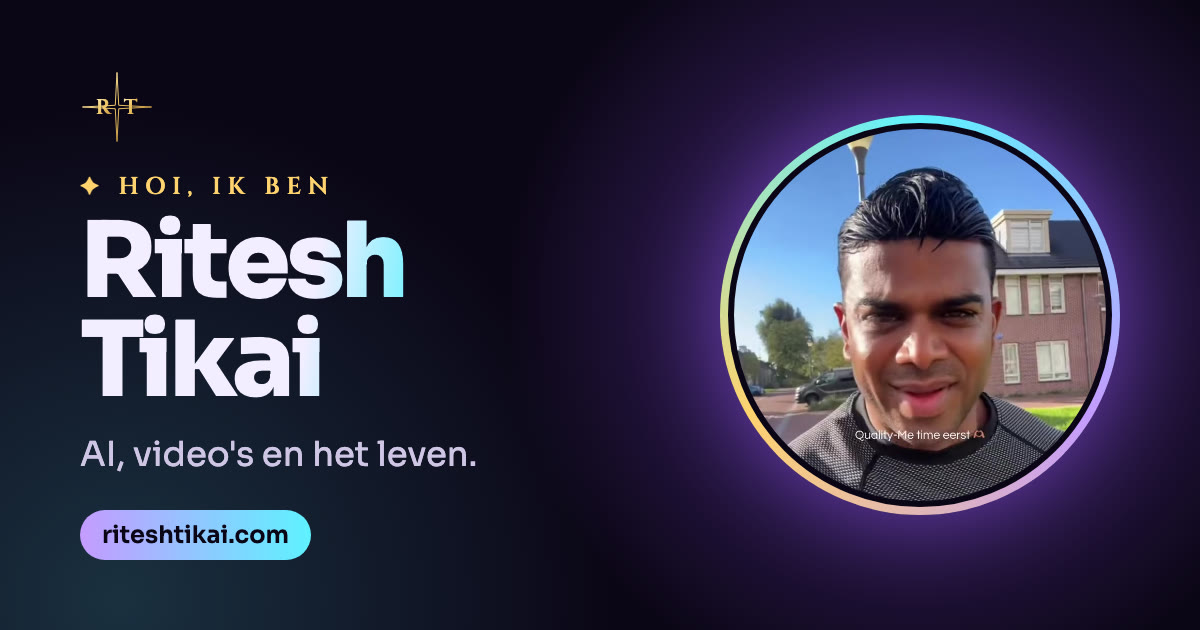
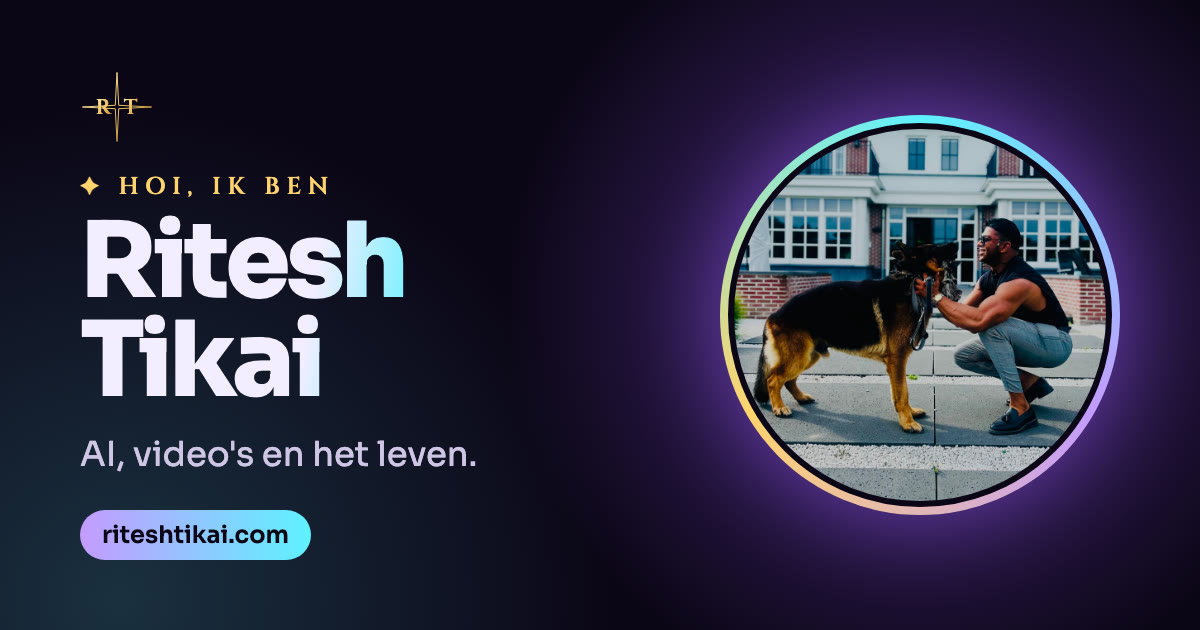
Hero: foto met Duitse herder in het portaal; deelafbeelding bijgewerkt

Changed region(s): [[0.5858, 0.181, 0.925, 0.8143]]

diff --git a/index.html b/index.html
@@ -181,6 +181,7 @@
   .antenne{animation:antenne 2s ease-in-out infinite}
   @keyframes antenne{50%{opacity:.35}}
   @media (prefers-reduced-motion:reduce){.knipoog,.antenne{animation:none}}
+  .face img{position:absolute;inset:0;width:100%;height:100%;object-fit:cover;object-position:50% 50%}
 </style>
 <script type="application/ld+json">{"@context": "https://schema.org", "@graph": [{"@type": "Person", "name": "Ritesh Tikai", "url": "https://riteshtikai.com/", "sameAs": ["https://www.instagram.com/riteshtikai/", "https://www.linkedin.com/in/ritesh-tikai-97643459/", "https://www.tiktok.com/@tiktoktikai", "https://www.tiktok.com/@tiktoktikai1"], "givenName": "Ritesh", "familyName": "Tikai", "image": "https://riteshtikai.com/media/og.jpg", "description": "Ritesh Tikai maakt video's over AI en het leven, op TikTok (@tiktoktikai en @tiktoktikai1) en Instagram (@riteshtikai).", "knowsAbout": ["Kunstmatige intelligentie", "AI", "Video", "Reizen"], "@id": "https://riteshtikai.com/#persoon"}, {"@type": "WebSite", "@id": "https://riteshtikai.com/#website", "url": "https://riteshtikai.com/", "name": "Ritesh Tikai", "inLanguage": "nl", "publisher": {"@id": "https://riteshtikai.com/#persoon"}}, {"@type": "ProfilePage", "url": "https://riteshtikai.com/", "name": "Ritesh Tikai", "mainEntity": {"@id": "https://riteshtikai.com/#persoon"}}]}</script>
 </head>
@@ -204,7 +205,7 @@
         <div class="portal" id="portal">
           <div class="glow" aria-hidden="true"></div><div class="ring1" aria-hidden="true"></div>
           <div class="ring2" aria-hidden="true"><svg viewBox="0 0 200 200"><defs><path id="pc" d="M100,100 m-88,0 a88,88 0 1,1 176,0 a88,88 0 1,1 -176,0"/></defs><text fill="#ffd36e" font-family="Cinzel" font-size="8.5" letter-spacing="3.4"><textPath href="#pc">✦ AI ✦ TRAVEL ✦ CODE ✦ VERHALEN ✦ VIDEO'S ✦ HET LEVEN ✦ RITESH ✦ </textPath></text></svg></div>
-          <div class="face"><video id="facevid" src="media/hero.mp4" poster="media/hero-poster.jpg" autoplay muted loop playsinline preload="auto" aria-label="Korte video van Ritesh"></video></div>
+          <div class="face"><img src="media/hero-foto.jpg" alt="Ritesh Tikai met zijn Duitse herder voor een wit huis" width="900" height="900" fetchpriority="high"></div>
         </div>
       </div>
     </div>
@@ -362,6 +363,7 @@ requestAnimationFrame(lus);
 /* Hero-video: volgt de pauzeknop en "minder beweging" */
 (() => {
   const v = document.getElementById("facevid"), knop = document.getElementById("pause");
+  if (!v) return;
   if (matchMedia("(prefers-reduced-motion: reduce)").matches) { v.removeAttribute("autoplay"); v.pause(); }
   knop.addEventListener("click", () => knop.getAttribute("aria-pressed") === "true" ? v.pause() : v.play());
 })();
